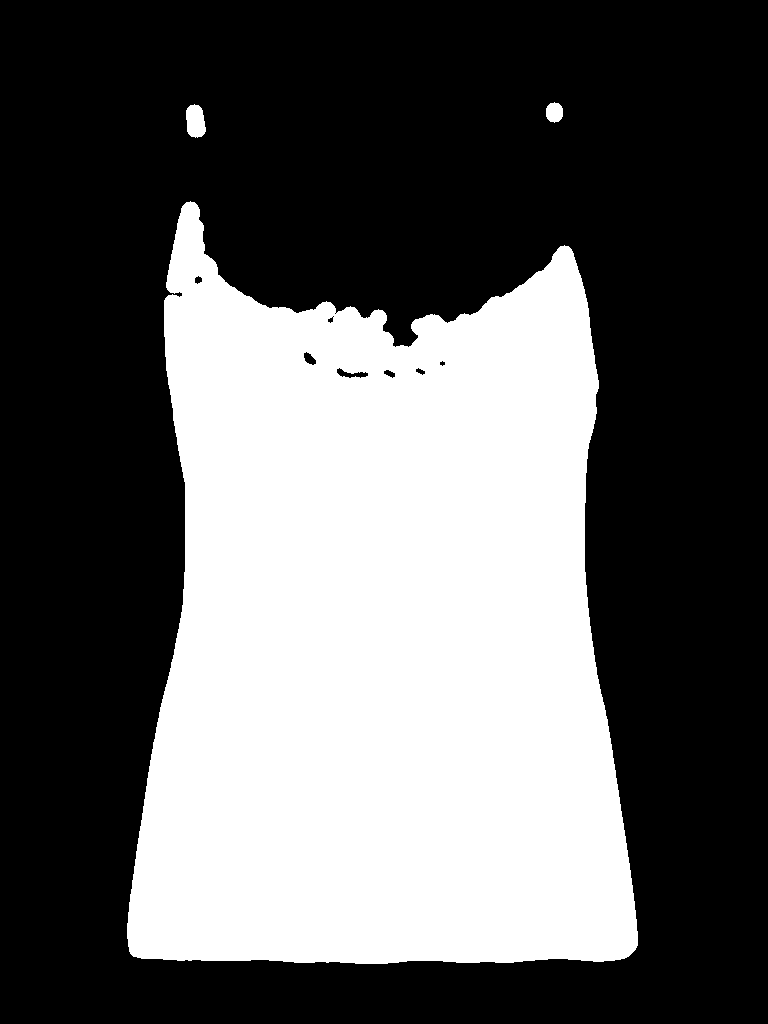
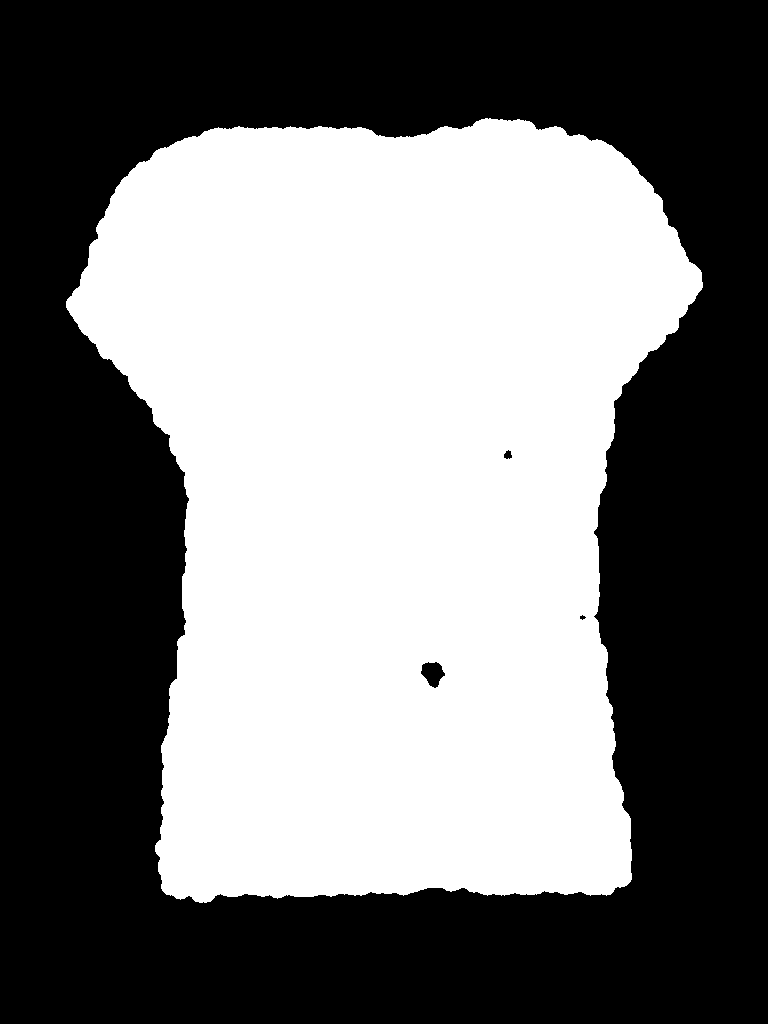
Update2

diff --git a/createmask.py b/createmask.py
@@ -10,7 +10,7 @@ hsv = cv2.cvtColor(img, cv2.COLOR_BGR2HSV)
 # create mask for shirt in hsv
 # specify lower and upper ranges for h,s,v colors of shirt
 lower = (0,0,0)
-upper = (200,250,200)
+upper = (200,255,245)
 mask = cv2.inRange(hsv, lower, upper)
 mask = cv2.merge([mask,mask,mask])
 
